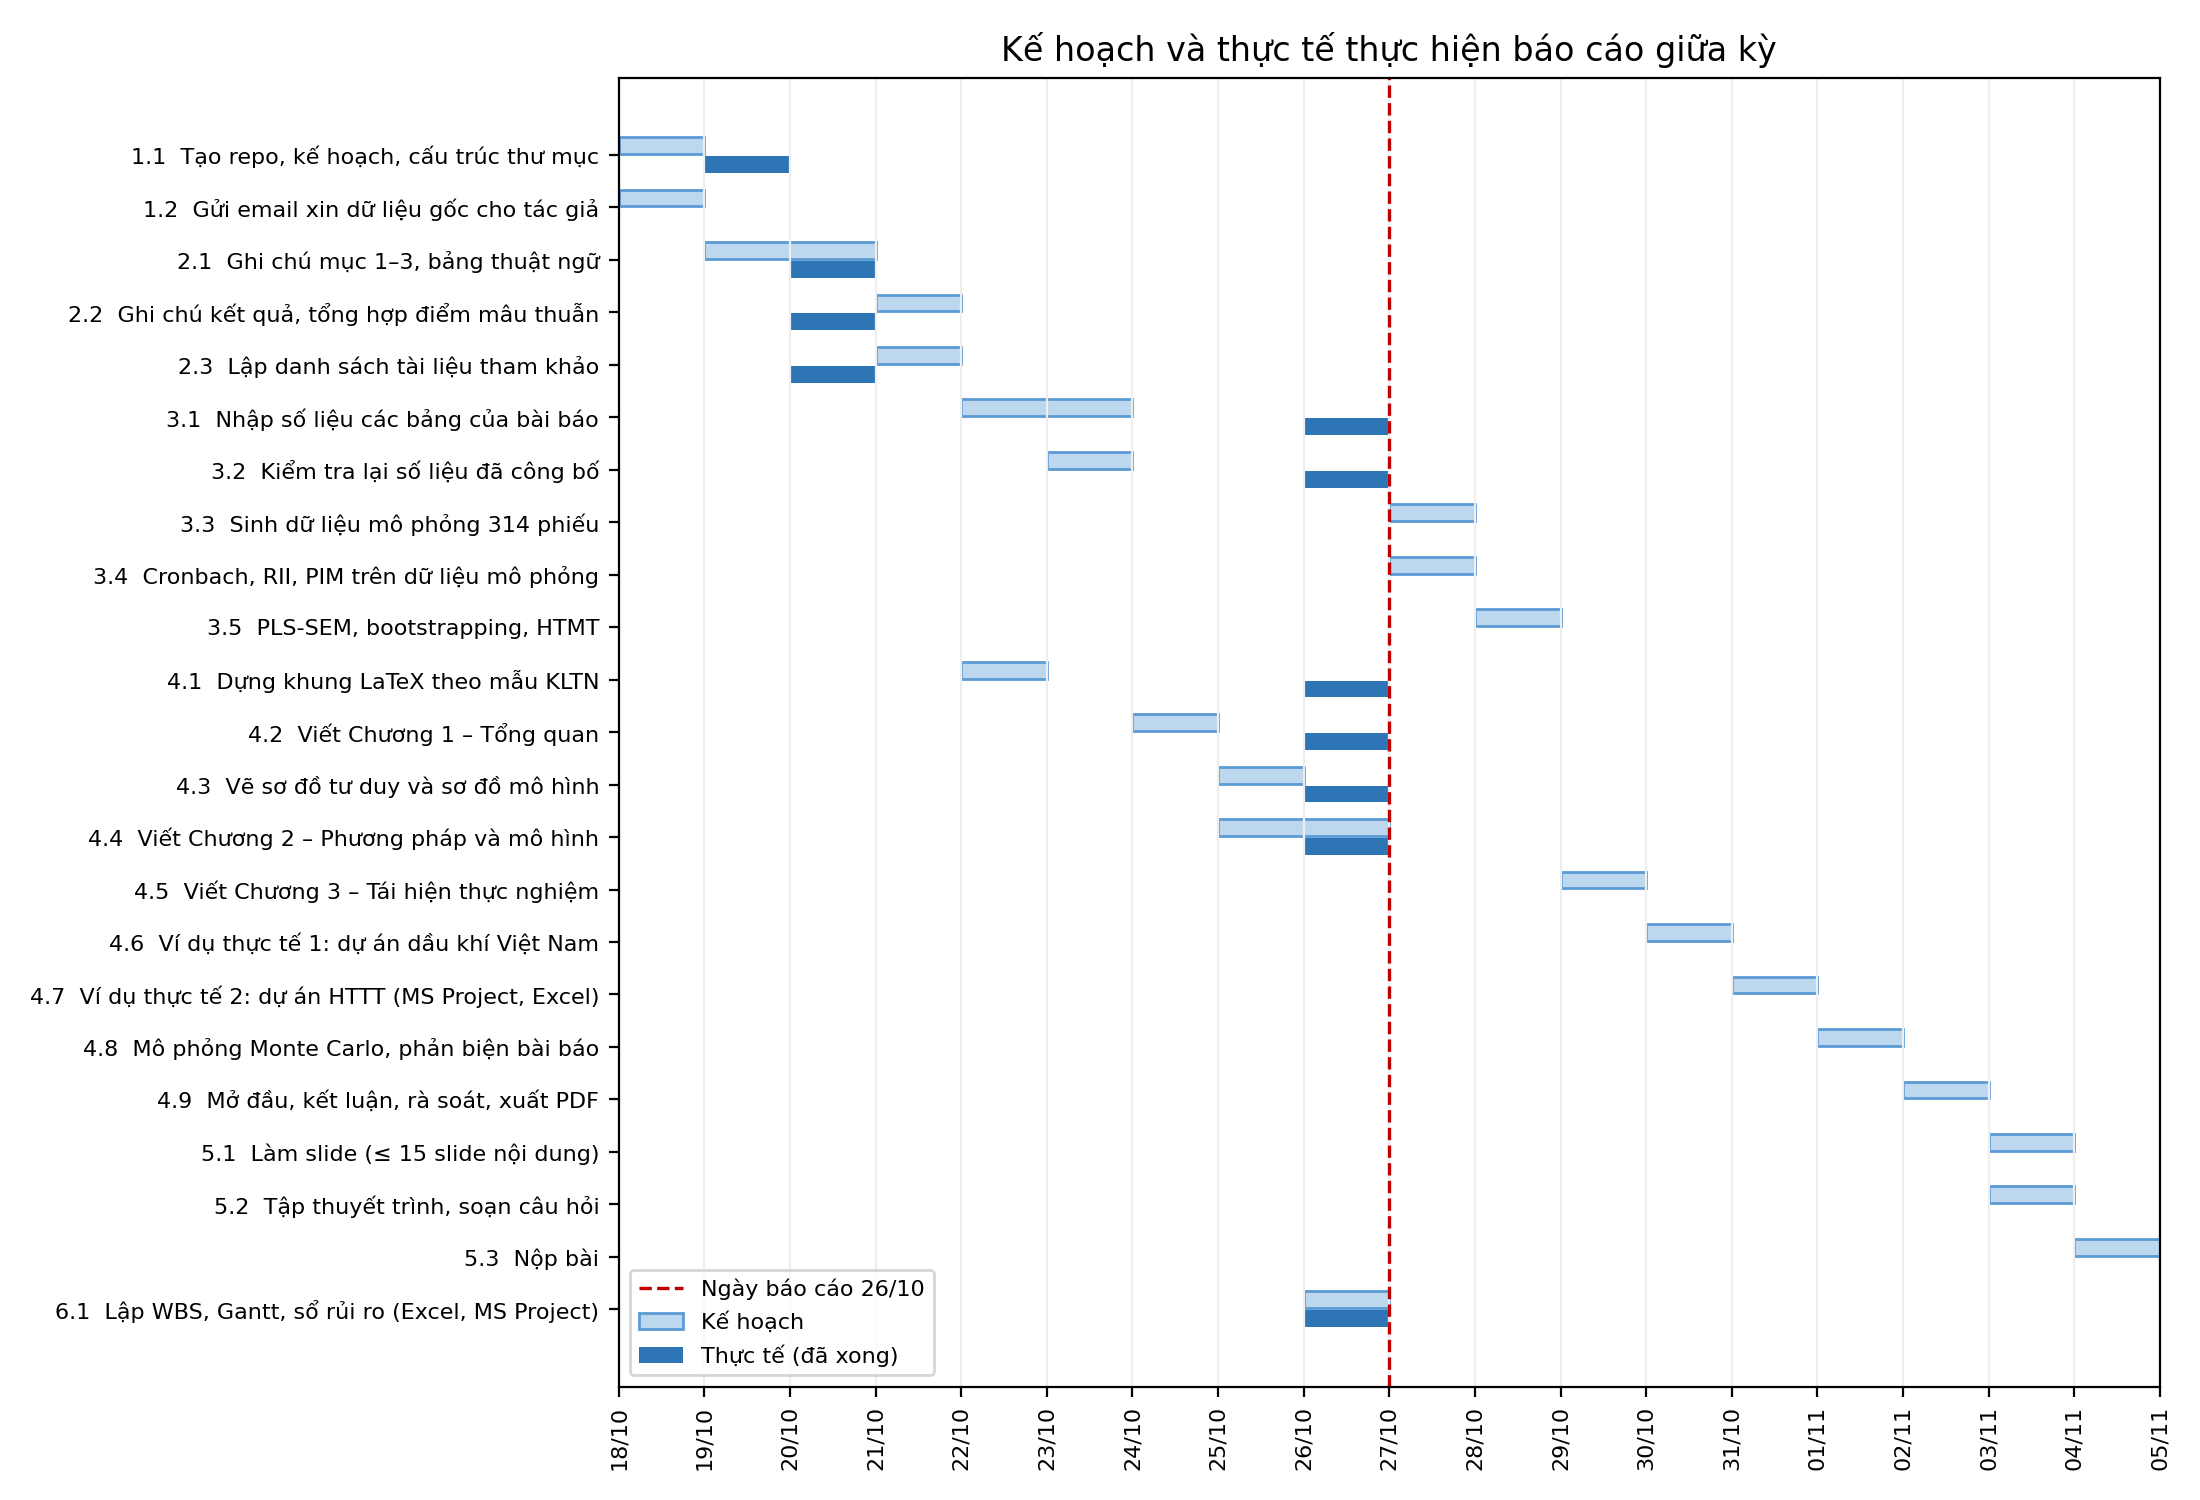
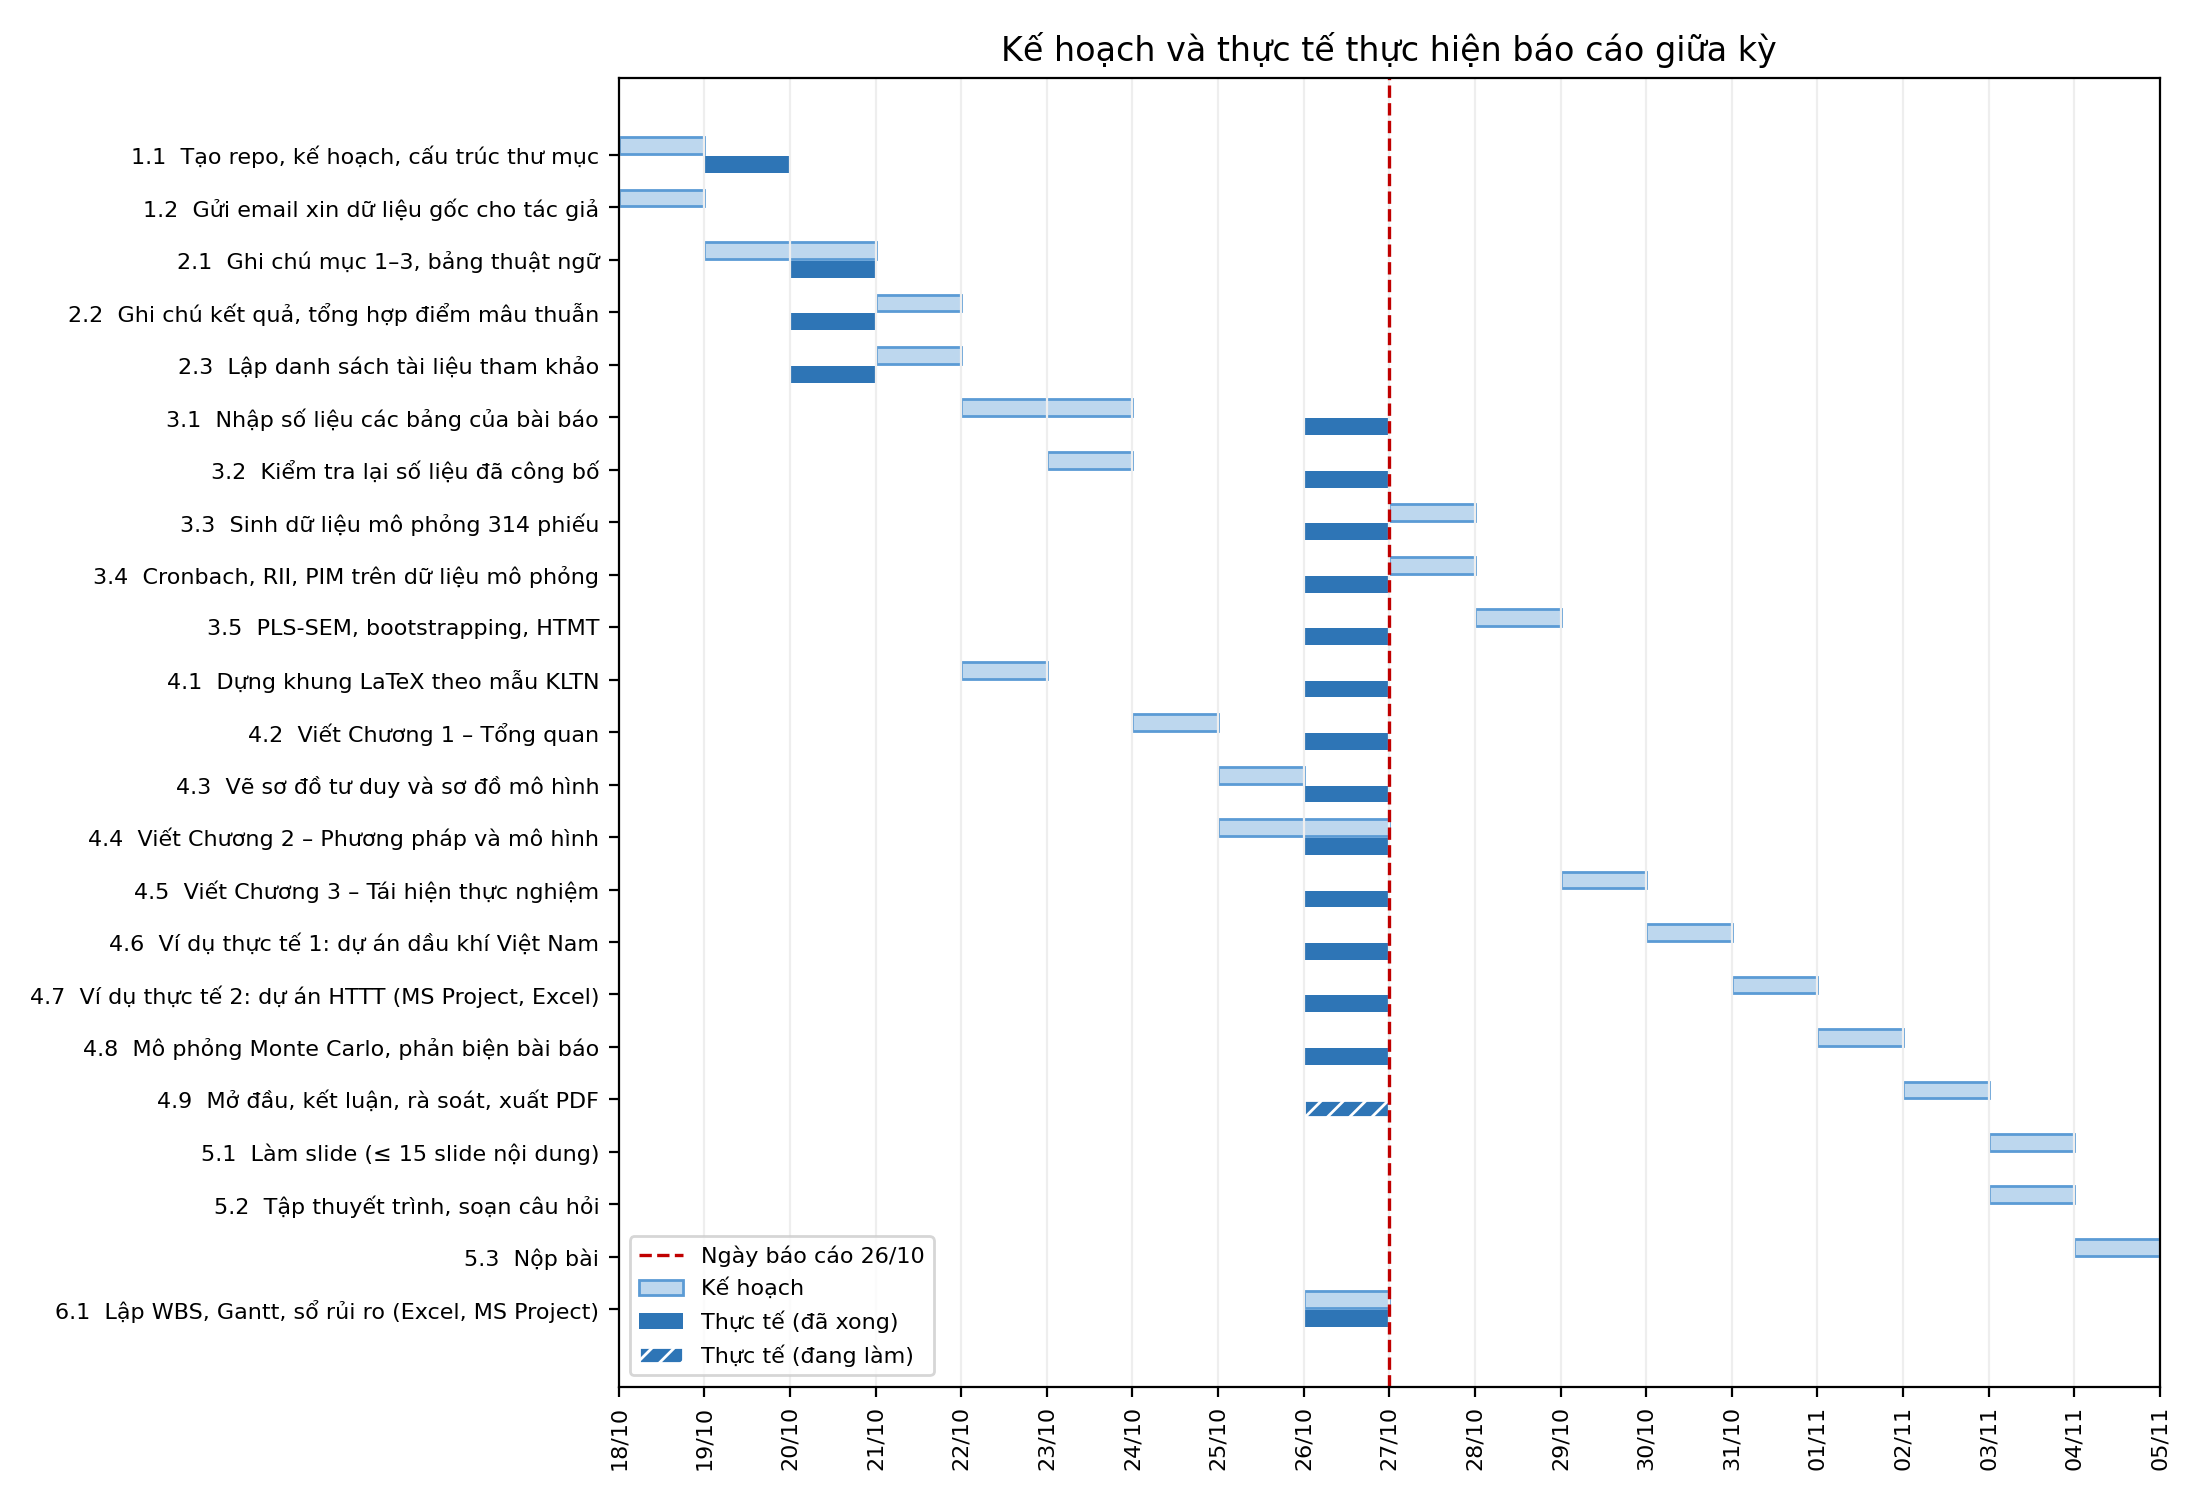
chore(quan-ly): cập nhật tiến độ dự án ngày 26/10

Changed region(s): [[0.2782, 0.828, 0.4327, 0.92], [0.5873, 0.5827, 0.6491, 0.7667], [0.5873, 0.3373, 0.6491, 0.4293]]

diff --git a/report/chuong/chuong4.tex b/report/chuong/chuong4.tex
@@ -206,4 +206,4 @@ Bản thân việc làm báo cáo này cũng là một dự án nhỏ: có phạ
 \label{fig:gantt-bao-cao}
 \end{figure}
 
-Biểu đồ Gantt cho thấy giai đoạn 22--25/10 bị trễ so với kế hoạch, và phần việc đó được làm bù trong ngày 26/10. Đây đúng là rủi ro R3 đã nhận diện trong sổ đăng ký. Việc theo dõi bằng baseline giúp phát hiện sớm độ trễ và điều chỉnh kế hoạch kịp thời, thay vì chỉ phát hiện ra khi đã sát hạn nộp.
+Biểu đồ Gantt cho thấy giai đoạn 22--25/10 bị trễ so với kế hoạch. Phần việc đó được làm bù trong ngày 26/10, đồng thời nhiều việc dự kiến cho giai đoạn 27/10--01/11 cũng hoàn thành sớm. Tại ngày báo cáo, dự án hoàn thành khoảng 90\% khối lượng tính theo giờ công. Độ trễ ban đầu đúng là rủi ro R3 đã nhận diện trong sổ đăng ký. Việc theo dõi bằng baseline giúp phát hiện sớm độ trễ và điều chỉnh kế hoạch kịp thời, thay vì chỉ phát hiện ra khi đã sát hạn nộp.
